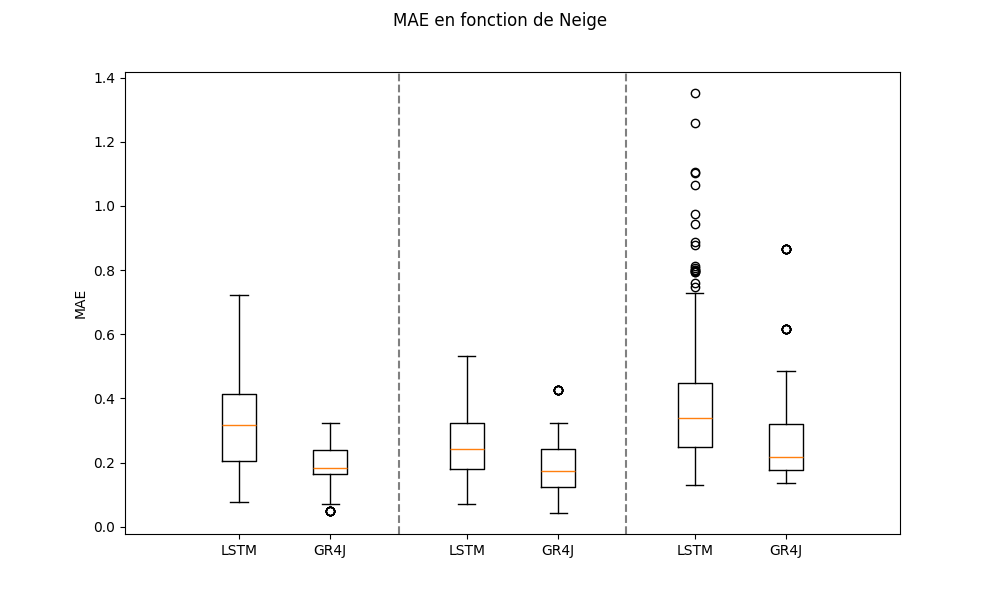
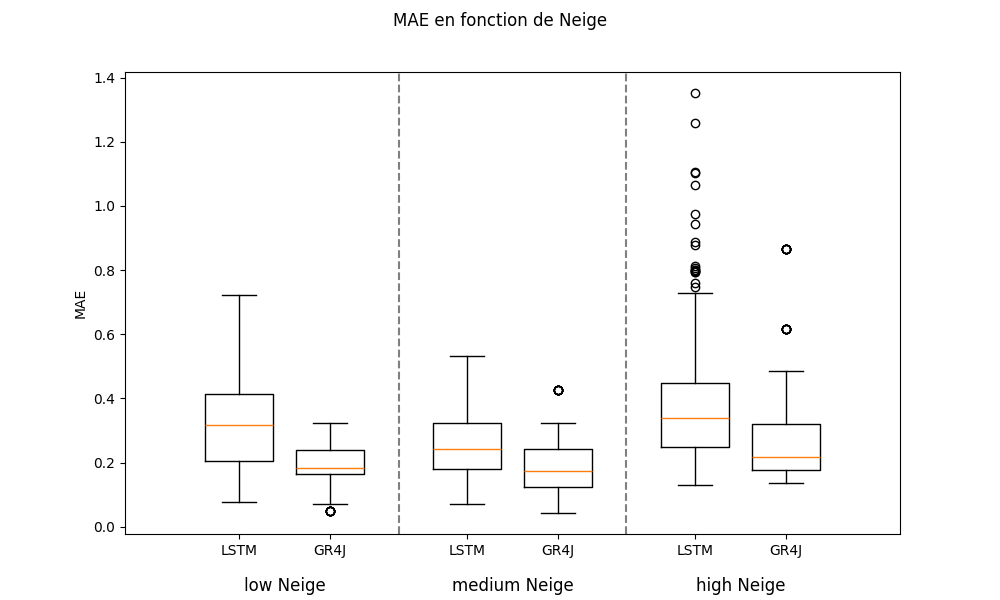
version finale de finale des plots de zinzin

diff --git a/plots.py b/plots.py
@@ -404,24 +404,76 @@ def plot_performance(df):
     df['ruissellement_group'] = pd.qcut(df['mean_flow_mm'] / df['mean_precip'], len(labelss), labels=labelss)
     plot_boxplot(df, 'ruissellement_group', 'Ruissellement', labelss)
 
-def plot_boxplot(df, group_col, group_name, labels):
-    """Plot des boites à moustaches pour les groupes définis"""
+# def plot_boxplot(df, group_col, group_name, labels):
+#     """Plot des boites à moustaches pour les groupes définis"""
     
+#     # Création du premier plot pour MAE
+#     mae, ax1 = plt.subplots(figsize=(10, 6))
+#     mae.suptitle(f'MAE en fonction de {group_name}')
+#     ax1.set_ylabel('MAE')
+    
+#     pos = 1
+#     for type in labels:
+#         if type !=labels[-1]:
+#             ax1.axvline(x=pos + 0.5, color='grey', linestyle='--')
+
+#         data1 = df.loc[df[group_col] == type, 'MAE_test_LSTM']
+#         ax1.boxplot(data1, positions=[pos - 0.2], tick_labels=['LSTM'])
+#         data2 = df.loc[df[group_col] == type, 'MAE_test_GR4J']
+#         ax1.boxplot(data2, positions=[pos + 0.2], tick_labels=['GR4J'])
+#         pos += 1
+
+#     mae.savefig(os.path.join(dir_plots, f'boxplot_MAE_{group_name}.png'))
+
+#     # Création du deuxième plot pour NSE
+#     nse, ax2 = plt.subplots(figsize=(10, 6))
+#     nse.suptitle(f'NSE en fonction de {group_name}')
+#     ax2.set_ylabel('NSE')
+    
+#     pos = 1
+#     for type in labels:
+#         if type !=labels[-1]:
+#             ax2.axvline(x=pos + 0.5, color='grey', linestyle='--')
+
+#         data1 = df.loc[df[group_col] == type, 'NSE_test_LSTM']
+#         ax2.boxplot(data1, positions=[pos - 0.2], tick_labels=['LSTM'])
+#         data2 = df.loc[df[group_col] == type, 'NSE_test_GR4J']
+#         ax2.boxplot(data2, positions=[pos + 0.2], tick_labels=['GR4J'])
+#         pos += 1
+
+#     nse.savefig(os.path.join(dir_plots, f'boxplot_NSE_{group_name}.png'))
+
+#     plt.close(mae)
+#     plt.close(nse)
+
+# import os
+# import matplotlib.pyplot as plt
+
+def plot_boxplot(df, group_col, group_name, labels):
+    """Plot des boîtes à moustaches pour les groupes définis"""
+
     # Création du premier plot pour MAE
     mae, ax1 = plt.subplots(figsize=(10, 6))
     mae.suptitle(f'MAE en fonction de {group_name}')
     ax1.set_ylabel('MAE')
-    
+
     pos = 1
+    group_positions = []  # Stocker les positions pour les labels de groupe
     for type in labels:
-        if type !=labels[-1]:
+        if type != labels[-1]:
             ax1.axvline(x=pos + 0.5, color='grey', linestyle='--')
 
         data1 = df.loc[df[group_col] == type, 'MAE_test_LSTM']
-        ax1.boxplot(data1, positions=[pos - 0.2], tick_labels=['LSTM'])
+        ax1.boxplot(data1, positions=[pos - 0.2], widths=0.3, tick_labels=['LSTM'])
         data2 = df.loc[df[group_col] == type, 'MAE_test_GR4J']
-        ax1.boxplot(data2, positions=[pos + 0.2], tick_labels=['GR4J'])
+        ax1.boxplot(data2, positions=[pos + 0.2], widths=0.3, tick_labels=['GR4J'])
+
+        group_positions.append(pos)  # Enregistrer la position pour le label du groupe
         pos += 1
+
+    # Ajouter les labels des groupes sous l'axe des x
+    for i, label in enumerate(labels):
+        ax1.text(group_positions[i], -0.2, f'{label} {group_name}', fontsize=12, ha='center', transform=ax1.transData)
 
     mae.savefig(os.path.join(dir_plots, f'boxplot_MAE_{group_name}.png'))
 
@@ -429,17 +481,24 @@ def plot_boxplot(df, group_col, group_name, labels):
     nse, ax2 = plt.subplots(figsize=(10, 6))
     nse.suptitle(f'NSE en fonction de {group_name}')
     ax2.set_ylabel('NSE')
-    
+
     pos = 1
+    group_positions = []  # Réinitialisation pour le second graphe
     for type in labels:
-        if type !=labels[-1]:
+        if type != labels[-1]:
             ax2.axvline(x=pos + 0.5, color='grey', linestyle='--')
 
         data1 = df.loc[df[group_col] == type, 'NSE_test_LSTM']
-        ax2.boxplot(data1, positions=[pos - 0.2], tick_labels=['LSTM'])
+        ax2.boxplot(data1, positions=[pos - 0.2], widths=0.3, tick_labels=['LSTM'])
         data2 = df.loc[df[group_col] == type, 'NSE_test_GR4J']
-        ax2.boxplot(data2, positions=[pos + 0.2], tick_labels=['GR4J'])
+        ax2.boxplot(data2, positions=[pos + 0.2], widths=0.3, tick_labels=['GR4J'])
+
+        group_positions.append(pos)
         pos += 1
+
+    # Ajouter les labels des groupes sous l'axe des x
+    for i, label in enumerate(labels):
+        ax2.text(group_positions[i], -0.2, f'{label} {group_name}', fontsize=12, ha='center', transform=ax1.transData)
 
     nse.savefig(os.path.join(dir_plots, f'boxplot_NSE_{group_name}.png'))
 
